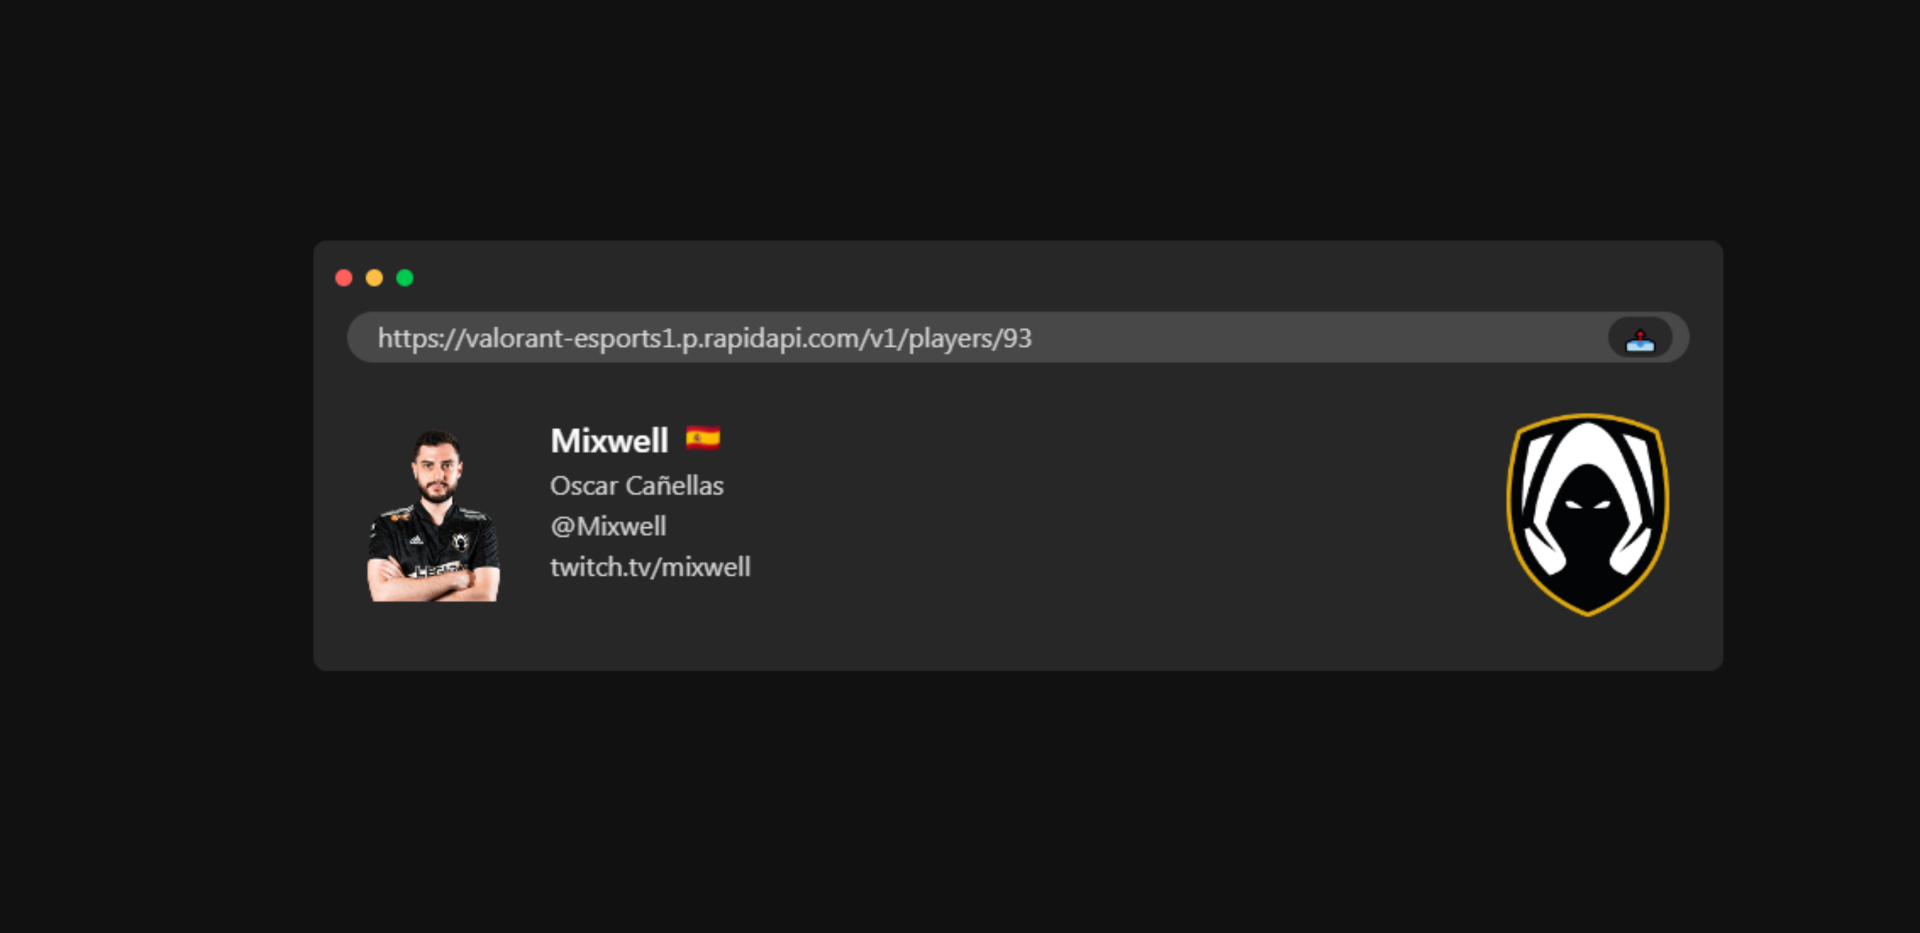
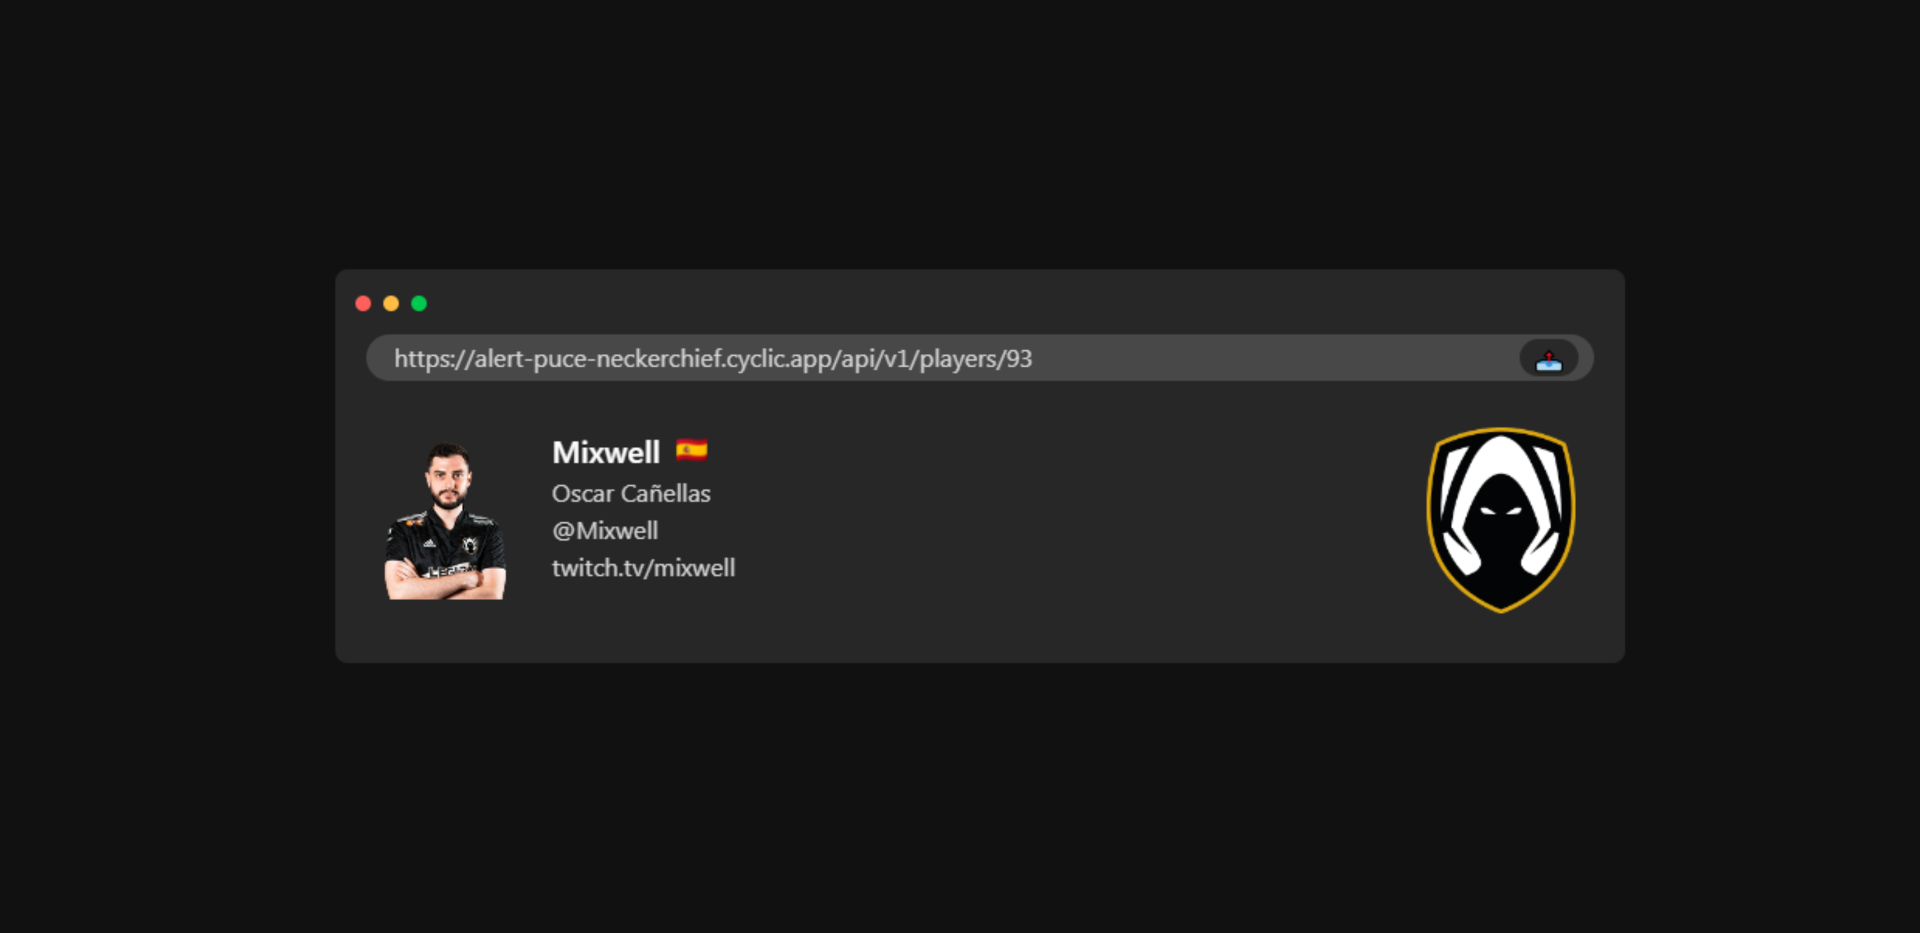
new images and url

Changed region(s): [[0.1562, 0.2797, 0.9062, 0.6838]]

diff --git a/src/content/blog/valorant-esports-api.md b/src/content/blog/valorant-esports-api.md
@@ -22,8 +22,6 @@ Una API es un conjunto de funciones y procedimientos que cumplen una o muchas fu
 
 Para acceder a los datos, se hace una petición HTTP a la API, y esta devuelve los datos en formato JSON.
 
-Esta potenciada por RapidAPI, por lo que para poder usarla hay que registrarse en su página web y obtener una clave de API. Accede a la página de la API en <a href="https://rapidapi.com/madorlix-F9ZSAPsIt3/api/valorant-esports1" target="_blank">RapidAPI</a>.
-
 Hay que tener en cuenta que la API está en fase beta, por lo que puede haber cambios en el futuro.
 
 ### ¿Cómo es por dentro?
@@ -63,7 +61,7 @@ Algunos datos están en desarrollo, por lo que no están disponibles todavía.
 
 ## ¿Cómo usarla?
 
-Mira como usarla en la <a href="https://vlrggapi-docs.vercel.app" target="_blank">documentación de la API</a>. Alli podras ver como hacer las peticiones, los datos que devuelve y hacer tu propias pruebas.
+Mira como usarla en la <a href="https://vlresports.vercel.app" target="_blank">documentación de la API</a>. Alli podras ver como hacer las peticiones, los datos que devuelve y hacer tu propias pruebas.
 
 ![API Playground](~/assets/posts/vlr/playground.webp)
 
@@ -76,11 +74,7 @@ import axios from "axios";
 
 const options = {
   method: "GET",
-  url: "https://valorant-esports1.p.rapidapi.com/v1/teams/1001",
-  headers: {
-    "X-RapidAPI-Key": "API_KEY",
-    "X-RapidAPI-Host": "valorant-esports1.p.rapidapi.com",
-  },
+  url: "https://alert-puce-neckerchief.cyclic.app/api/v1/teams/1001",
 };
 
 try {
